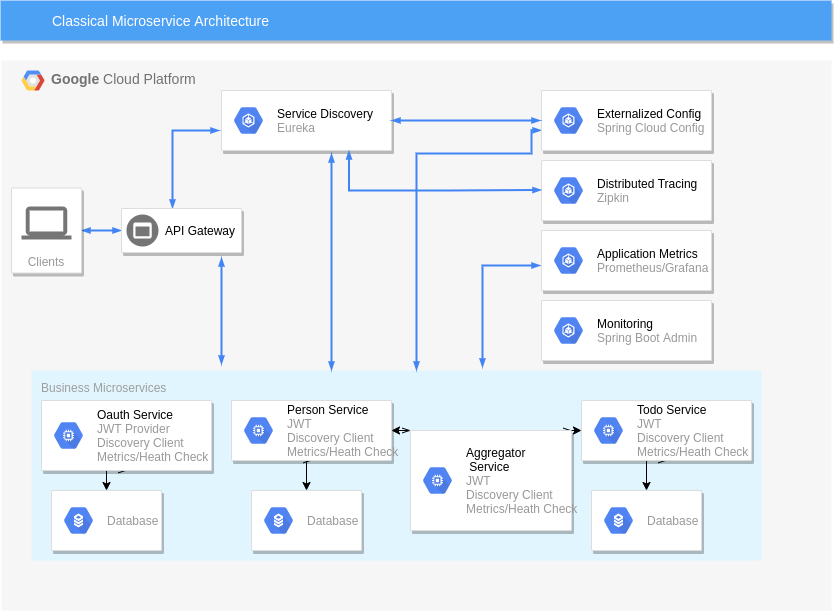
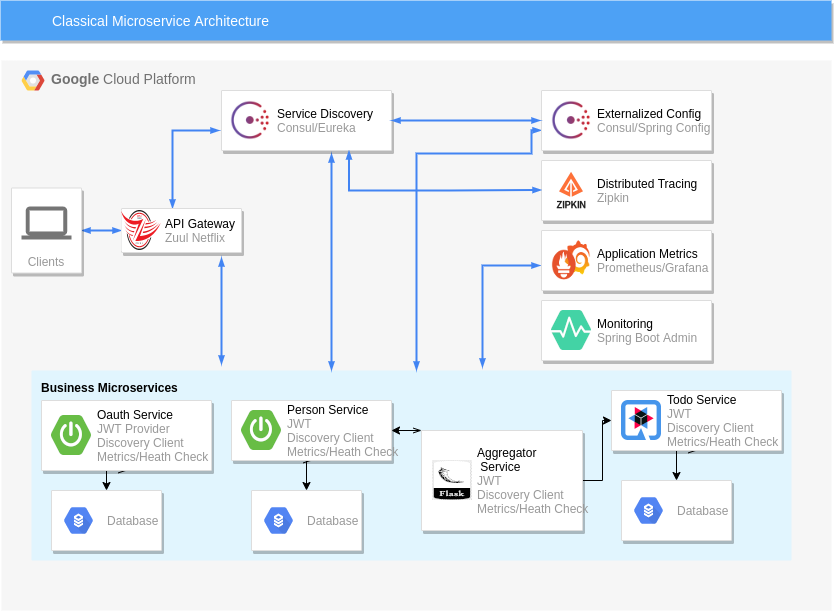
Changed eureka dependencies to consul

diff --git a/aggregator-service/flask/main.py b/aggregator-service/flask/main.py
@@ -6,13 +6,17 @@ import py_eureka_client.eureka_client as eureka_client
 import requests
 from autologging import traced, logged
 from core.api_setup import initialize_api
-from core.spring_cloud_setup import initialize_spring_cloud_client, initialize_dispatcher
 from flask import Flask, Response
 from flask import jsonify, make_response
 from flask_jwt_extended import JWTManager, get_jwt_identity, jwt_required
 from flask_restx import fields, Resource
 from flask_zipkin import Zipkin
 from werkzeug.serving import run_simple
+from prometheus_client import make_wsgi_app
+from werkzeug.middleware.dispatcher import DispatcherMiddleware
+from flask_consulate import Consul
+from flask_prometheus_metrics import register_metrics
+
 
 app = Flask(__name__)
 app.config.from_envvar('ENV_FILE_LOCATION')
@@ -34,7 +38,6 @@ logging.basicConfig(
     stream=sys.stdout
 )
 
-initialize_spring_cloud_client(app)
 api = initialize_api(app)
 
 ns = api.namespace('api/dashboards', description='Dashboard operations')
@@ -133,6 +136,40 @@ zipkin.init_app(app)
 
 api.add_namespace(ns)
 debug_flag = app.config['DEBUG']
+
+def initialize_dispatcher(app):
+	initialize_consul(app)
+
+	# Plug metrics WSGI app to your main app with dispatcher
+	return DispatcherMiddleware(app.wsgi_app, {"/actuator/prometheus": make_wsgi_app()})
+
+
+def initialize_consul(app):
+	server_port = app.config['SERVER_PORT']
+
+	app_name = app.config['APP_NAME']
+	# Consul
+	# This extension should be the first one if enabled:
+	consul = Consul(app=app)
+	# Fetch the conviguration:
+	consul.apply_remote_config(namespace='mynamespace/')
+	# Register Consul service:
+	consul.register_service(
+		name=app_name,
+		interval='10s',
+		tags=['webserver', ],
+		port=server_port,
+		httpcheck='http://localhost:' + str(server_port) + '/actuator/health'
+	)
+
+	public_key_location = app.config['JWT_PUBLIC_KEY']
+
+	log.debug('public_key_location: %s', public_key_location)
+
+	log.debug('Config environment: %s', app.config)
+
+	# provide app's version and deploy environment/config name to set a gauge metric
+	register_metrics(app, app_version="v0.1.2", app_config="staging")
 
 
 if __name__ == "__main__":
